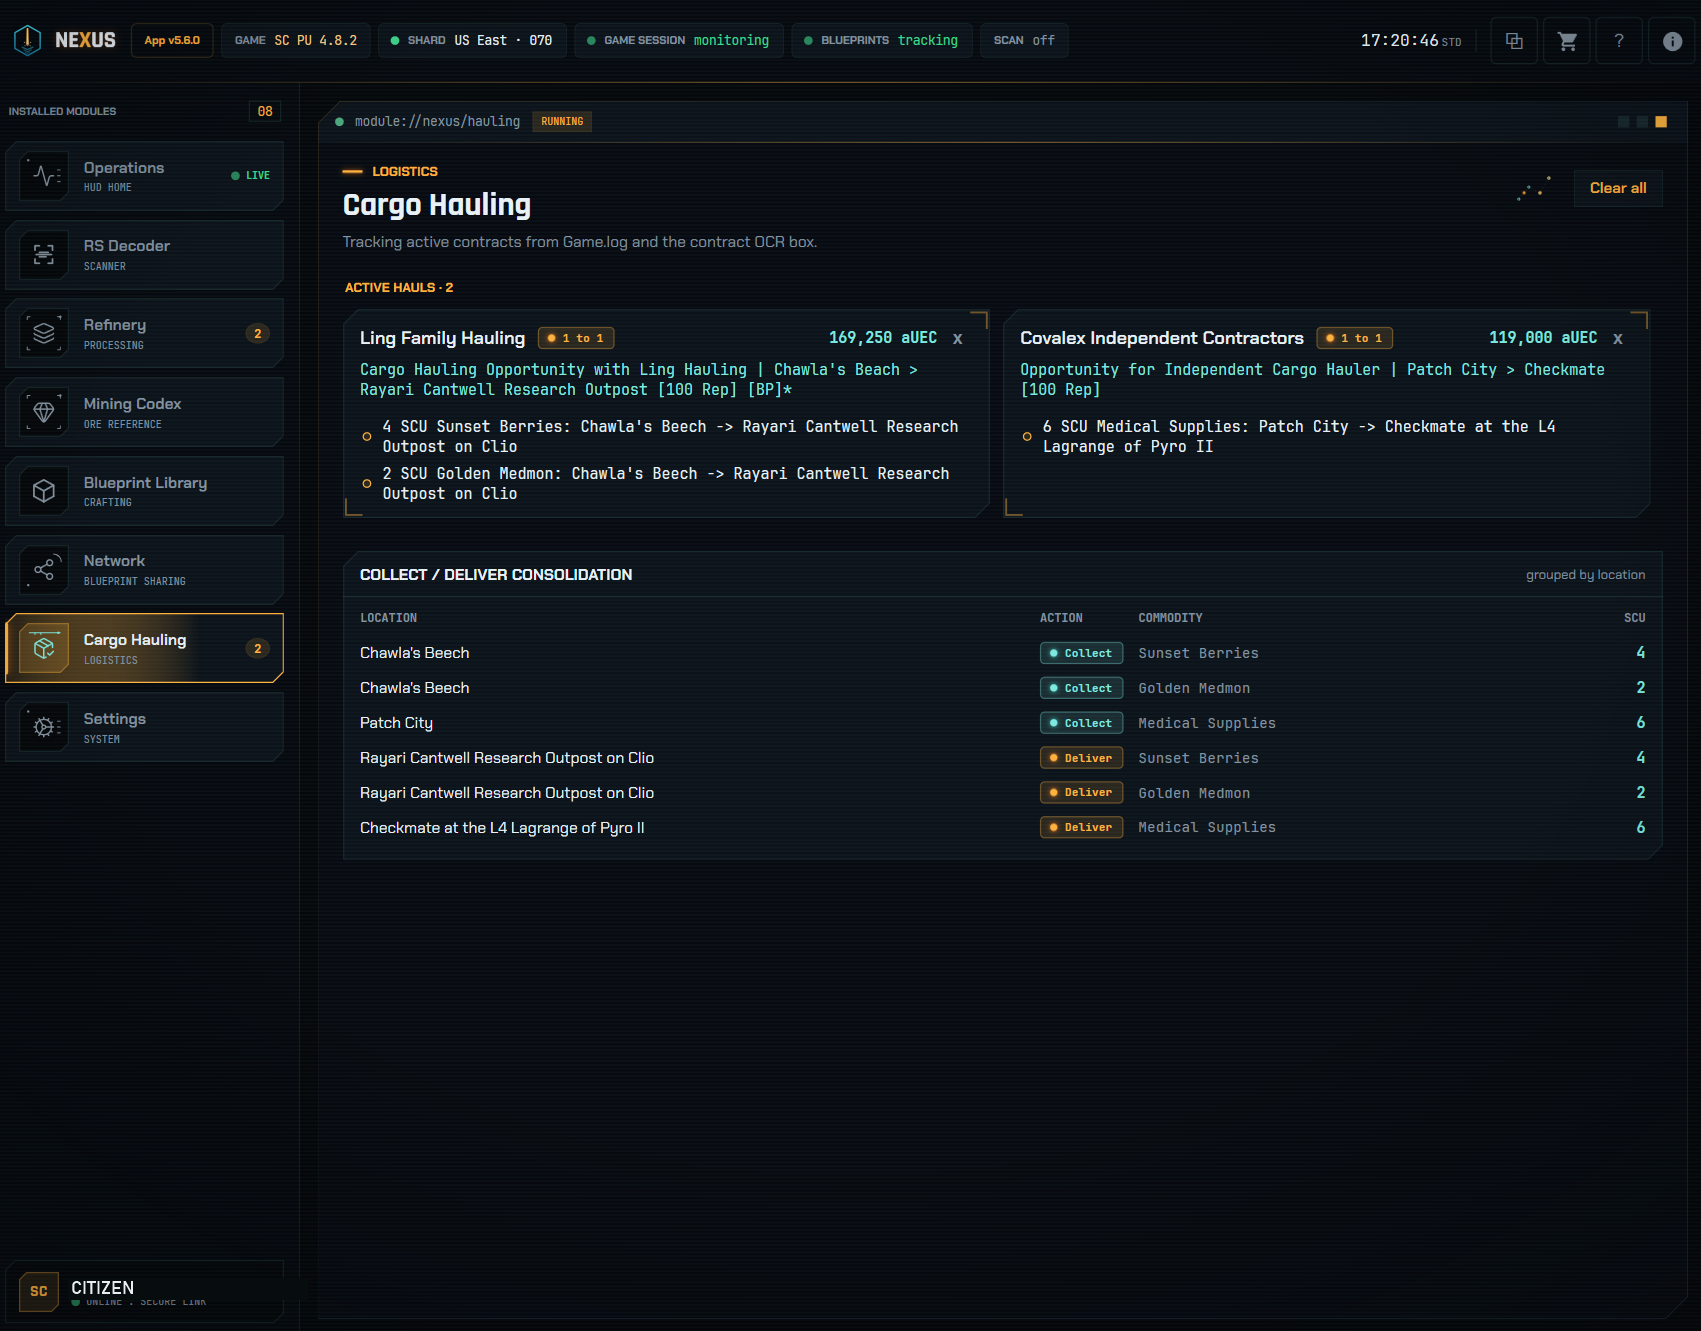
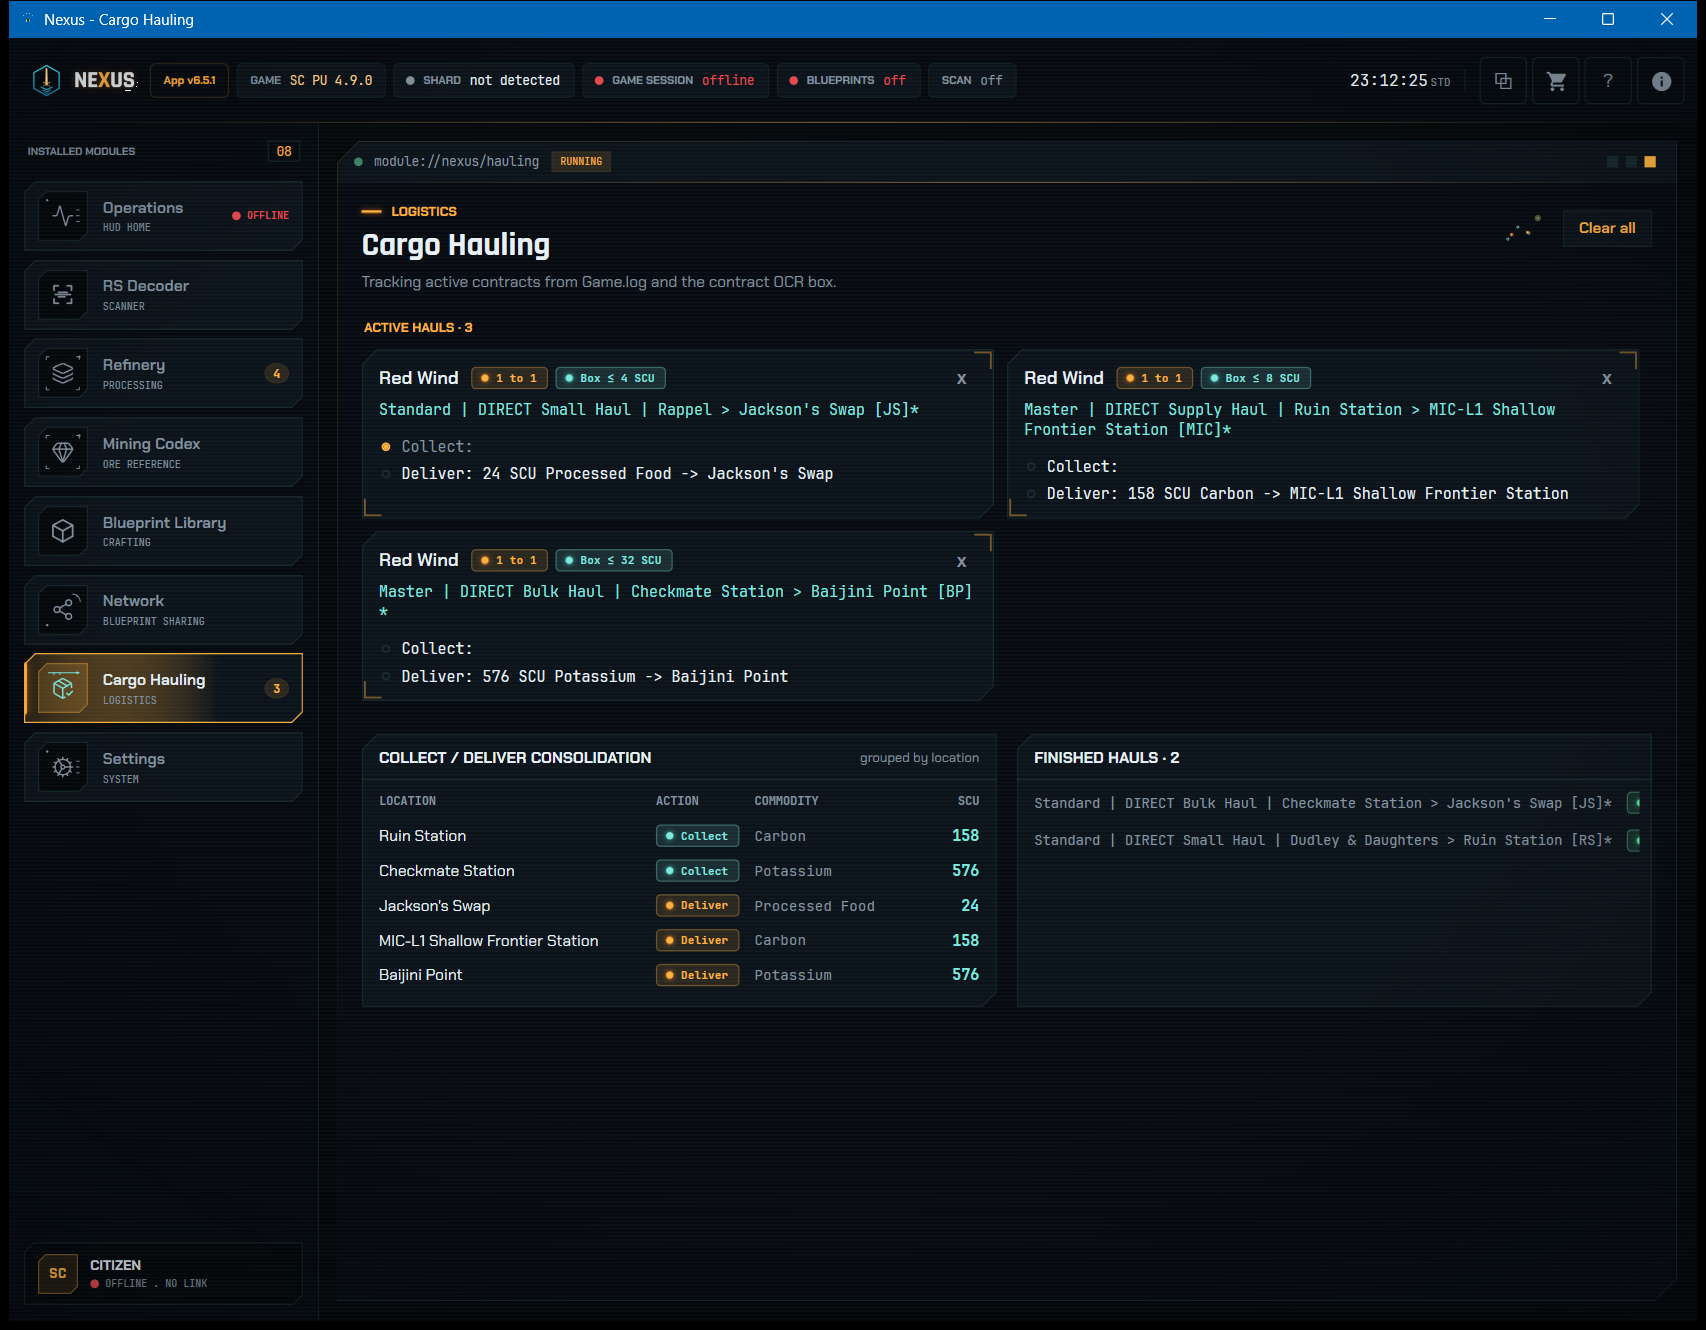
Refresh the README screenshots and captions

diff --git a/README.md b/README.md
@@ -56,7 +56,7 @@ The **Blueprint Network** adds ownership tracking for friends or your org. You t
 ## Screenshots
 
 ### Operations
-The landing dashboard during a live session. It shows the last scan decoded, the refinery queue with one order ready, cargo in transit, and your current shard. It links to every module.
+The landing dashboard. It shows the last scan decoded, the refinery queue with one order ready, cargo in transit, and the recent server shards. It links to every module.
 
 [![Nexus Operations dashboard with live KPI cards, refinery queue, active hauls, and server shard panel](docs/screenshots/operations.png)](docs/screenshots/operations.png)
 
@@ -71,14 +71,14 @@ The HUB tab floats over gameplay. It shows green status lights for session track
 [![Nexus overlay HUB tab floating over Star Citizen gameplay with status lights and shard panel](docs/screenshots/overlay.jpg)](docs/screenshots/overlay.jpg)
 
 ### RS Signal Decoder
-Type any RS value to get a ranked breakdown. The best match shows as a hero card with the node count and the refinery yield. Close matches show below. The re-runnable scan history shows on the right.
+Type any RS value to get a ranked breakdown. The best match shows as a hero card with the node count, the best refinery, and what the rock can contain. Close matches show below. The re-runnable scan history shows on the right.
 
-[![Nexus RS Decoder with a Lindinium exact match hero card and other close matches](docs/screenshots/rs-decoder.png)](docs/screenshots/rs-decoder.png)
+[![Nexus RS Decoder with a Torite exact match hero card, rock composition, and other close matches](docs/screenshots/rs-decoder.png)](docs/screenshots/rs-decoder.png)
 
 ### Blueprint Library
-Open any blueprint to see its full bill of materials and the contracts that unlock it. It also shows a ranked WHERE TO MINE plan for the ingredients. Track everything that you own.
+Open any blueprint to see its full bill of materials and the contracts that unlock it. It also shows a ranked WHERE TO MINE plan and byproduct sourcing for the ingredients. Track everything that you own.
 
-[![Nexus Blueprint Library showing a blueprint's bill of materials, unlock contracts, and where to mine panel](docs/screenshots/blueprint-library.png)](docs/screenshots/blueprint-library.png)
+[![Nexus Blueprint Library showing a blueprint's bill of materials, unlock contracts, where to mine plan, and byproduct sourcing](docs/screenshots/blueprint-library.png)](docs/screenshots/blueprint-library.png)
 
 ### Blueprint Network
 Group coverage: the coverage ring, per-member ownership, and a watch list. The watch list shows the gaps that nobody owns yet and the single-owner blueprints at risk.
@@ -86,17 +86,17 @@ Group coverage: the coverage ring, per-member ownership, and a watch list. The w
 [![Nexus Blueprint Network showing group blueprint coverage ring, per-member ownership, and watch list](docs/screenshots/blueprint-network.png)](docs/screenshots/blueprint-network.png)
 
 ### Mining Codex
-A full reference of every mineable resource. It is searchable. Filter it by star system (Stanton / Pyro / Nyx) and by mining method (Ship / ROC / FPS). A detail panel shows the RS value, refinery yields, locations, and the blueprints that use it.
+A full reference of every mineable resource. It is searchable. Filter it by star system (Stanton / Pyro / Nyx) and by mining method (Ship / ROC / FPS). A detail dossier shows the mining profile, the rock composition, byproduct sourcing, locations, and the blueprints that use it.
 
-[![Nexus Mining Codex resource list with rarity colors and a Gold detail panel showing refinery yields and locations](docs/screenshots/mining-codex.png)](docs/screenshots/mining-codex.png)
+[![Nexus Mining Codex resource list with rarity colors and a Gold dossier showing the mining profile and rock composition](docs/screenshots/mining-codex.png)](docs/screenshots/mining-codex.png)
 
 ### Refinery Tracker
-Live work orders show as cards. One is ready to collect. One is mid-refine, and its countdown runs. The timers survive when Nexus restarts.
+Live work orders show as cards. One is ready to collect. Two are mid-refine, and their countdowns run. The timers survive when Nexus restarts.
 
-[![Nexus Refinery Tracker with a ready work order and a refining order counting down](docs/screenshots/refinery-tracker.png)](docs/screenshots/refinery-tracker.png)
+[![Nexus Refinery Tracker with a ready work order and refining orders counting down](docs/screenshots/refinery-tracker.png)](docs/screenshots/refinery-tracker.png)
 
 ### Cargo Hauling
-Nexus tracks two live contracts automatically from `Game.log` and shows their rewards. The consolidated collect and deliver table turns every leg into one route plan for each location.
+Nexus tracks three live contracts automatically from `Game.log`, with the container size for each. The consolidated collect and deliver table turns every leg into one route plan for each location.
 
 [![Nexus Cargo Hauling page with live contract cards and the collect deliver consolidation table](docs/screenshots/cargo-hauling.png)](docs/screenshots/cargo-hauling.png)
 
